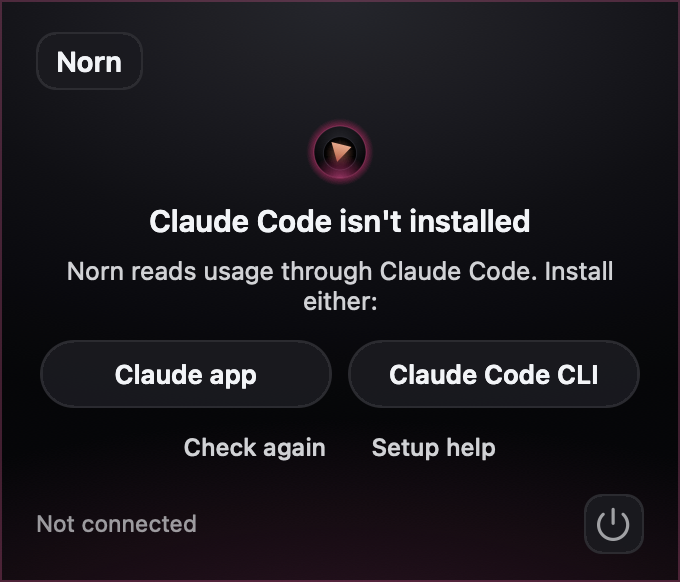
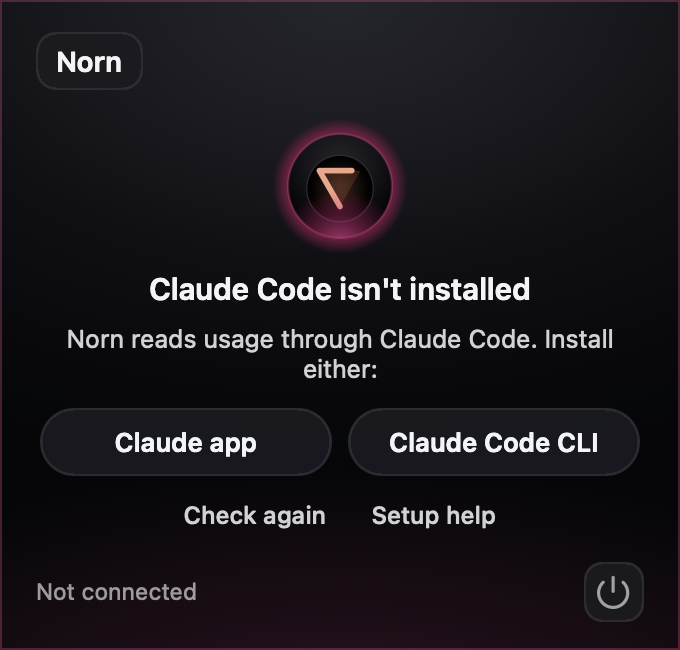
feat(page): Norn 3.2.0
Version line and image URLs at 3.2.0. The connect screens are re-rendered
from the 3.2.0 build (the larger asking ball, Setup help), and the guide's
tips on them move down with the taller screens.

diff --git a/index.html b/index.html
@@ -9,7 +9,7 @@
 <meta property="og:description" content="Your claude.ai usage, in the menu bar.">
 <meta property="og:type" content="website">
 <meta property="og:url" content="https://tkachenkobogdan.github.io/norn/">
-<link rel="icon" href="icon-128.png?v=3.1.2" sizes="128x128">
+<link rel="icon" href="icon-128.png?v=3.2.0" sizes="128x128">
 <style>
   :root {
     /* Onyx: the ball's shell, lit by its magenta. Clay is the die's alone and
@@ -83,7 +83,7 @@
   /* The menu-bar mark: the app's own frames (mark-working@2x.png, one 24 pt
      slot per frame, rendered by BallMark + BallMotion), not a redrawing. */
   .menubar .barmark { width: 24px; height: 24px; margin: -5px -4px -5px 0; flex: none;
-    background: url(mark-working@2x.png?v=3.1.2) 0 0 / 3312px 24px no-repeat; }
+    background: url(mark-working@2x.png?v=3.2.0) 0 0 / 3312px 24px no-repeat; }
   .menubar .clock { font-variant-numeric: tabular-nums; }
   /* the desktop below the bar, just enough to read as a screen */
   .screen .desktop { height: 44px; }
@@ -248,7 +248,7 @@
 <header>
   <!-- The app's real icon, as the binary renders it into the bundle's iconset
        (scripts/make-icon.sh). Not a recreation, and it does not move. -->
-  <img class="mark" src="icon@2x.png?v=3.1.2" width="512" height="512"
+  <img class="mark" src="icon@2x.png?v=3.2.0" width="512" height="512"
        alt="Norn" fetchpriority="high">
 
   <h1>Norn</h1>
@@ -316,9 +316,9 @@
     </a>
     <a class="btn btn-ghost" href="#homebrew">Install with Homebrew</a>
   </p>
-  <p class="meta">Version 3.1.2 · macOS 14 or later · Apple Silicon · free</p>
+  <p class="meta">Version 3.2.0 · macOS 14 or later · Apple Silicon · free</p>
   <a class="guide-link" href="guide.html">
-    <img src="icon-128.png?v=3.1.2" width="128" height="128" alt="">
+    <img src="icon-128.png?v=3.2.0" width="128" height="128" alt="">
     <span><b>First time setting it up?</b>
       <span>The setup guide walks you through it with the real screens, in five minutes.</span></span>
     <span class="go">Open the guide</span>
@@ -336,7 +336,7 @@
   <div class="shots">
     <div class="shot">
       <figure>
-        <span class="frame"><img src="popover@2x.png?v=3.1.2" width="680" height="1092" loading="lazy"
+        <span class="frame"><img src="popover@2x.png?v=3.2.0" width="680" height="1092" loading="lazy"
              alt="The panel on a subscription: an organisation picker, then Session 54%,
                   Weekly 28% and Weekly Fable 30%, each with a meter and a reset time,
                   then the Sessions list at API value."></span>
@@ -347,7 +347,7 @@
     </div>
     <div class="shot">
       <figure>
-        <span class="frame"><img src="ledger@2x.png?v=3.1.2" width="680" height="1440" loading="lazy"
+        <span class="frame"><img src="ledger@2x.png?v=3.2.0" width="680" height="1440" loading="lazy"
              alt="The panel on a spend limit: $189.42 of $300, $110.58 left this cycle,
                   63% used, a tape of the five most recent charges, and the Sessions list."></span>
         <figcaption><b>On a spend limit.</b> What you have run up this cycle, what
@@ -364,7 +364,7 @@
   <div class="sessions">
     <div class="shot">
       <figure>
-        <span class="frame"><img src="sessions@2x.png?v=3.1.2" width="680" height="1212" loading="lazy"
+        <span class="frame"><img src="sessions@2x.png?v=3.2.0" width="680" height="1212" loading="lazy"
              alt="The Sessions list with Desktop off, sorted by cost: two terminal sessions,
                   two headless runs, a CLI total, and the part of the bill no session explains."></span>
         <figcaption><b>Desktop off, sorted by cost.</b> The total follows the
@@ -391,7 +391,7 @@
   <div class="sessions">
     <div class="shot">
       <figure>
-        <span class="frame"><img src="menubar@2x.png?v=3.1.2" width="680" height="554" loading="lazy"
+        <span class="frame"><img src="menubar@2x.png?v=3.2.0" width="680" height="554" loading="lazy"
              alt="The Menu bar text screen: Full $189.42 / $300 (today's look, 119 pt),
                   Compact $189 / 300 (91 pt), Minimal $189 (57 pt) and Mark, the mark alone (24 pt)."></span>
         <figcaption><b>Four styles, measured.</b> Each row shows your own reading in
@@ -474,7 +474,7 @@
      already knows your plan and limits. It never asks for, stores or sends a login.</p>
   <div class="shot" style="max-width:340px;margin:0 auto 22px">
     <figure>
-      <span class="frame"><img src="connect@2x.png?v=3.1.2" width="680" height="714" loading="lazy"
+      <span class="frame"><img src="connect@2x.png?v=3.2.0" width="680" height="836" loading="lazy"
            alt="The Connect screen: Norn runs your claude to ask for usage, found two
                 accounts, never reads, stores or sends a login, and never talks to claude.ai."></span>
     </figure>
@@ -501,7 +501,7 @@
   <div class="shots shots-3">
     <div class="shot">
       <figure>
-        <span class="frame"><img src="appearance@2x.png?v=3.1.2" width="680" height="716" loading="lazy"
+        <span class="frame"><img src="appearance@2x.png?v=3.2.0" width="680" height="716" loading="lazy"
              alt="Appearance settings: Theme Auto, Dark or Light; Panel motion Slide, Unfurl or Fade;
                   Menu bar mark Ball with Ring; Menu bar text; Context gauge."></span>
         <figcaption><b>Appearance.</b> Dark or light (Pearl) panel, or follow macOS,
@@ -510,7 +510,7 @@
     </div>
     <div class="shot">
       <figure>
-        <span class="frame"><img src="mark-ball@2x.png?v=3.1.2" width="680" height="798" loading="lazy"
+        <span class="frame"><img src="mark-ball@2x.png?v=3.2.0" width="680" height="798" loading="lazy"
              alt="Menu bar mark: Ball chosen. While Claude works: Ring, Pulse, Die only or Off."></span>
         <figcaption><b>The ball.</b> While Claude Code works its die turns: with a
           magenta ring, a pulsing glow, on its own, or not at all.</figcaption>
@@ -518,7 +518,7 @@
     </div>
     <div class="shot">
       <figure>
-        <span class="frame"><img src="mark-trine@2x.png?v=3.1.2" width="680" height="888" loading="lazy"
+        <span class="frame"><img src="mark-trine@2x.png?v=3.2.0" width="680" height="888" loading="lazy"
              alt="Menu bar mark: Trine chosen. While Claude works: Chase, Draw, Tumble, Turn or Off."></span>
         <figcaption><b>The Trine.</b> A plain clay triangle for a quieter bar, with
           five ways to move. <i>Off</i> keeps either still and saves battery.</figcaption>

diff --git a/guide.html b/guide.html
@@ -8,7 +8,7 @@
 <meta property="og:title" content="Set up Norn">
 <meta property="og:description" content="Install Norn, connect your Claude account, and read your spend from the menu bar.">
 <meta property="og:url" content="https://tkachenkobogdan.github.io/norn/guide.html">
-<link rel="icon" href="icon-128.png?v=3.1.2" sizes="128x128">
+<link rel="icon" href="icon-128.png?v=3.2.0" sizes="128x128">
 <style>
   /* The landing page's Onyx tokens, unchanged. */
   :root {
@@ -158,7 +158,7 @@
 
   <main>
     <div class="top">
-      <img src="icon-128.png?v=3.1.2" width="128" height="128" alt="">
+      <img src="icon-128.png?v=3.2.0" width="128" height="128" alt="">
       <div><h1>Set up Norn</h1><p>Five minutes, once.</p></div>
       <a href="./">About Norn</a>
     </div>
@@ -197,12 +197,12 @@
 // Every picture is the app's own render (SPENDBAR_SNAPSHOT_* fixtures), at @2x.
 // A tip's x/y mark the left edge of what it explains, as percentages of that
 // picture; "bar" points at the status item. The guide waits in the lane beside it.
-const V = "?v=3.1.2";
+const V = "?v=3.2.0";
 const IMG = {
   ledger:       ["guide/ledger@2x.png", 680, 1440, "Norn's panel on a dollar plan: $189.42 of $300 spent this cycle, recent checks, and Claude Code sessions with estimated costs."],
-  notInstalled: ["guide/not-installed@2x.png", 680, 582, "Claude Code isn't installed: buttons for the Claude app and the Claude Code CLI, Check again and Setup help."],
-  signIn:       ["guide/sign-in@2x.png", 680, 724, "Sign in to Claude Code: the claude auth login command, Open Terminal, and a Waiting for sign-in line."],
-  connect:      ["guide/connect@2x.png", 680, 768, "Connect through Claude Code: Norn found two accounts, never reads a login, and a Connect button."],
+  notInstalled: ["guide/not-installed@2x.png", 680, 650, "Claude Code isn't installed: buttons for the Claude app and the Claude Code CLI, Check again and Setup help."],
+  signIn:       ["guide/sign-in@2x.png", 680, 792, "Sign in to Claude Code: the claude auth login command, Open Terminal, and a Waiting for sign-in line."],
+  connect:      ["guide/connect@2x.png", 680, 836, "Connect through Claude Code: Norn found two accounts, never reads a login, and a Connect button."],
   menubar:      ["guide/menubar@2x.png", 680, 554, "Menu bar styles: Full, Compact, Minimal and Mark, each with a sample."],
   settings:     ["guide/settings@2x.png", 680, 754, "Settings: Account, Appearance, Refresh every, Toggle shortcut and Open at login."],
   signedOut:    ["guide/signed-out@2x.png", 680, 556, "Claude Code signed out of Acme Inc, with the sign-in command and Open Terminal."],
@@ -227,9 +227,9 @@ const STEPS = [
 
   { nav: "Get Claude Code", img: "notInstalled",
     tips: [
-      { x: 4.5, y: 64.4, t: "Easiest: install the Claude desktop app. Norn uses the Claude Code that comes inside it." },
-      { x: 50, y: 64.4, t: "Or install Claude Code on its own. It takes one Terminal command." },
-      { x: 25.5, y: 77.3, t: "Installed? Click Check again." }
+      { x: 4.5, y: 68.1, t: "Easiest: install the Claude desktop app. Norn uses the Claude Code that comes inside it." },
+      { x: 50, y: 68.1, t: "Or install Claude Code on its own. It takes one Terminal command." },
+      { x: 25.5, y: 79.7, t: "Installed? Click Check again." }
     ],
     html: `<h2>Norn reads your spend through Claude Code</h2>
       <p>Claude Code is Anthropic's own tool. You don't have to write code to use Norn: it asks Claude Code for your account's usage, the same figures claude.ai shows you.</p>
@@ -247,9 +247,9 @@ const STEPS = [
 
   { nav: "Sign in", img: "signIn",
     tips: [
-      { x: 4.5, y: 52, t: "This is the sign-in command. You don't need to type it." },
-      { x: 27, y: 64, t: "Click Open Terminal, then press Return. Your browser opens: sign in with your work Claude account." },
-      { x: 28, y: 74, t: "Norn notices by itself when you're signed in." }
+      { x: 4.5, y: 56.1, t: "This is the sign-in command. You don't need to type it." },
+      { x: 27, y: 67.1, t: "Click Open Terminal, then press Return. Your browser opens: sign in with your work Claude account." },
+      { x: 28, y: 76.2, t: "Norn notices by itself when you're signed in." }
     ],
     html: `<h2>Sign in with your work account</h2>
       <p>Sign in with the <b>same Claude account you use at work</b>, the one your company pays for.</p>
@@ -262,8 +262,8 @@ const STEPS = [
 
   { nav: "Connect", img: "connect",
     tips: [
-      { x: 3.5, y: 52, t: "The accounts Norn found. You can switch between them later in Settings." },
-      { x: 27, y: 73, t: "Click Connect. That's the whole set-up." }
+      { x: 3.5, y: 55.9, t: "The accounts Norn found. You can switch between them later in Settings." },
+      { x: 27, y: 75.2, t: "Click Connect. That's the whole set-up." }
     ],
     html: `<h2>Connect</h2>
       <p>Norn lists what it will and won't do, and the Claude accounts it found on this Mac. Click <b>Connect</b>.</p>
